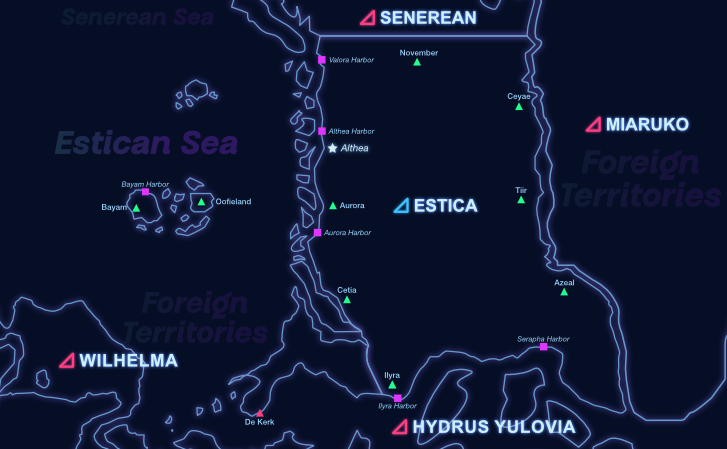
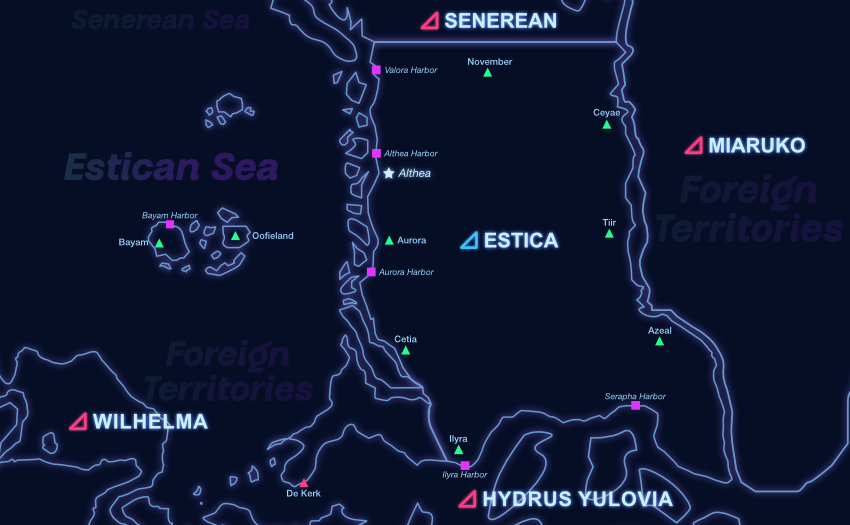
Updated

diff --git a/Ministry of Information/Factbooks/Overview Text.md b/Ministry of Information/Factbooks/Overview Text.md
@@ -6,7 +6,9 @@
 
 [hr]
 
-[b]Motto: [/b][i]Through hardship and blood[/i]
+[I]"Kingdom of Stars, Key of Lights, Beacon of The Cosmos."[/i]
+
+[b]Motto: [/b][i]"Serenity in our hearts, stars in our destiny"[/i]
 [hr]
 
 [hr][/center]
@@ -14,7 +16,7 @@
 [table=plain]
 [tr][td][b]Capital[/b][/td][td]Althea[/td][/tr]
 
-[tr][td][b]Largest city[/b][/td][td]Backlund[/td][/tr]
+[tr][td][b]Largest city[/b][/td][td]Aurora[/td][/tr]
 
 [tr][td][b]Official language[/b][/td][td]Estican
 English[/td][/tr]
@@ -34,7 +36,7 @@ Milaru[/td][/tr]
 [tr][td][b]Legislature[/b][/td][td]Parliament[/td][/tr]
 
 [tr][td][b]Formation[/b][/td][td][/td][/tr]
-[tr][td]• Grand Solomon Empire[/td][td]800-1240[/td][/tr]
+[tr][td]• Grand Solomon Empire[/td][td]800-1200[/td][/tr]
 [tr][td]• War of the Four Emperors[/td][td]1236-1240[/td][/tr]
 [tr][td]• Tudor Empire[/td][td]1300-1600[/td][/tr]
 [tr][td]• Early Estican Kingdom[/td][td]1700-1800[/td][/tr]
@@ -74,9 +76,9 @@ yyyy-mm-dd[/td][/tr]
 
 [size=200][font=georgia]Kingdom of Estica[/font][/size]
 [hr]
-[b]Estica[/b], officially [nation=long+noflag]estica[/nation], is a nation located in the central area of [region=the Almersen Union]. It is comprised of 8 counties and 2 archipelagoes. It is geographically positioned with [nation=noflag]senerean[/nation] to the north and [nation=noflag]wilhelma_and_the_flanfairs[/nation] to the south, sharing land borders with both. Additionally, it has maritime boundaries with [nation=noflag]yulovian_hydrus[/nation] to its south. The national capital of Estica is Althea, and its most populous city and financial center is Backlund City.
+[b]Estica[/b], officially [nation=long+noflag]estica[/nation], is a nation located in the central area of [region=the Almersen Union]. It is comprised of 8 counties and 2 archipelagoes. It is geographically positioned with [nation=noflag]senerean[/nation] to the north and [nation=noflag]wilhelma_and_the_flanfairs[/nation] to the south, sharing land borders with both. Additionally, it has maritime boundaries with [nation=noflag]yulovian_hydrus[/nation] to its south. The national capital of Estica is Althea, and its most populous city and financial center is Aurora City.
 
-The origin of the modern Estican Kingdom can be traced back to the Grand Solomon Empire, which was ruled by the powerful Black Emperor Solomon.
+The origin of the modern Estican Kingdom can be traced back to the Grand Solomon Empire, which was ruled by the powerful Black Emperor Solomon. This vast empire eventually split into four separate empires, leading to a conflict known as the War of the Four Emperors. After the war, one of these empires, the Tudo Empire, retreated to the South Region, which is now recognized as the present-day Estican Kingdom. As time went on, the influence of the declining Tudo Empire diminished, allowing the early Estican Kingdom to emerge. The formation of this nascent kingdom was greatly influenced by three main religions: the Church of the Evernight Goddess, the Church of the Lord of Storms, and the Church of the God of Technology. These religious institutions played a significant role in shaping the cultural and social norms of the early Estican Kingdom.
 
 The government structure and politics of the Kingdom of Estica are characterized by a unitary parliamentary constitutional monarchy. This governance system encompasses a delicate balance of power, where the reigning monarch shares authority with an elected parliamentary body. The nation's political landscape is notably influenced by a network of powerful aristocratic families, which not only hold significant positions within the government but also maintain a close relationship with the royal family, shaping the course of policy-making and administration.
 
@@ -88,8 +90,6 @@ The term "Estica" originated from an ancient goddess who once ruled over the myt
 
 [b][u][size=150][anchor=Hist]History[/anchor][/b][/u][/size]
 
-[b]Early History[/b]
-
 [b][u][size=150][anchor=Hist]National Map[/anchor][/b][/u][/size]
 
-[img]https://i.imgur.com/m2GOWjh.png[/img]
+[img]https://i.imgur.com/p7ucT19.png[/img]
